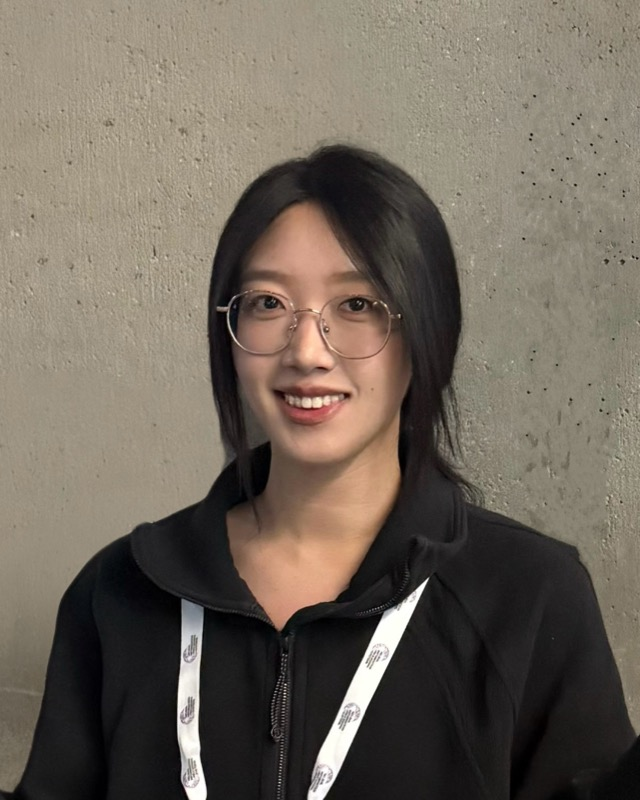
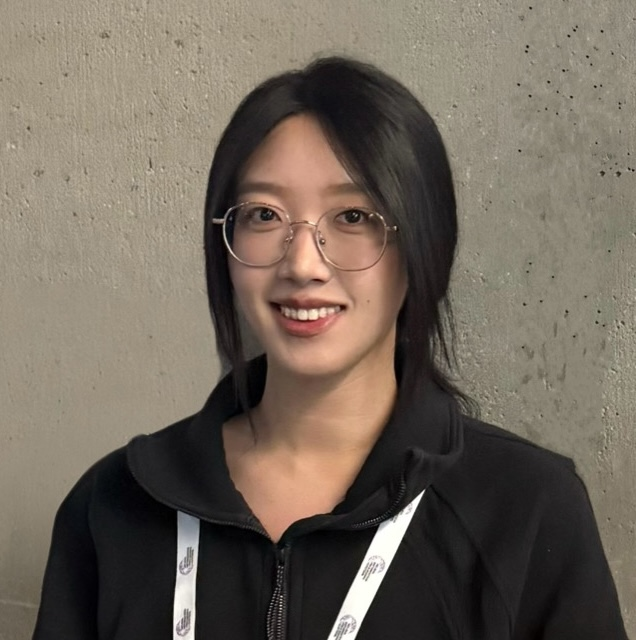
Use the pre-cropped square profile photo
The photo is now cropped square at the source, so drop the 28% vertical
offset the portrait original needed. Also ignore .DS_Store.

Claude-Session: https://claude.ai/code/session_01XYqWCfmQqGiYetjN7uHXtt

diff --git a/assets/css/main.scss b/assets/css/main.scss
@@ -31,10 +31,10 @@ $type-size-4: 1.45em; // section headings
     width: 190px;
     height: 190px;
     max-width: 190px;
+    /* The source is already cropped square, so cover/center just guards
+       against distortion if the photo is ever swapped for a non-square one. */
     object-fit: cover;
-    /* The source is portrait, so the square crop has vertical slack. Sit it
-       below the very top to take in a bit more of the lower part of the photo. */
-    object-position: center 28%;
+    object-position: center;
     border-radius: 50%;
   }
 
